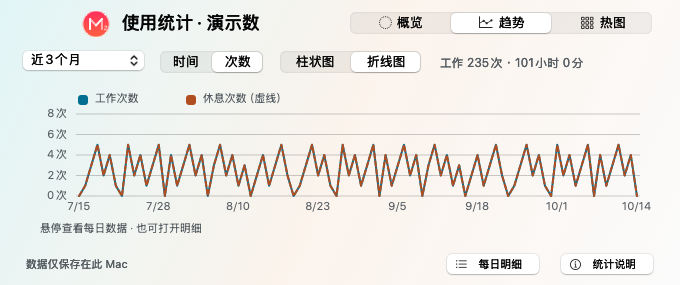
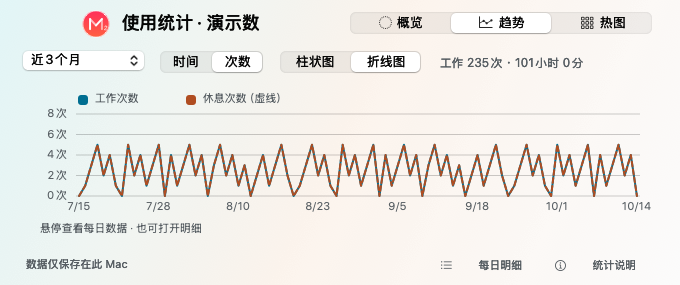
Soften statistics footer actions with borderless secondary buttons

Changed region(s): [[0.8029, 0.8982, 0.9574, 0.9825], [0.6485, 0.8982, 0.7721, 0.9825]]

diff --git a/Sources/Minutes2/StatisticsWindow.swift b/Sources/Minutes2/StatisticsWindow.swift
@@ -252,6 +252,24 @@ private final class StatisticsDetails: NSViewController, NSTableViewDataSource, 
     @objc private func done() { if let window = view.window { window.sheetParent?.endSheet(window) } }
 }
 
+/// Secondary footer actions share the glass backdrop and keep native button semantics.
+private final class StatisticsFooterButton: NSButton {
+    private var hovered = false
+    override func updateTrackingAreas() {
+        super.updateTrackingAreas(); trackingAreas.forEach(removeTrackingArea)
+        addTrackingArea(NSTrackingArea(rect: .zero, options: [.mouseEnteredAndExited, .activeInKeyWindow, .inVisibleRect], owner: self))
+    }
+    override func mouseEntered(with event: NSEvent) { hovered = true; refreshAppearance() }
+    override func mouseExited(with event: NSEvent) { hovered = false; refreshAppearance() }
+    override func viewDidChangeEffectiveAppearance() { super.viewDidChangeEffectiveAppearance(); refreshAppearance() }
+    func refreshAppearance() {
+        let color: NSColor = hovered ? .labelColor : StatsStyle.secondary
+        contentTintColor = color
+        attributedTitle = NSAttributedString(string: title, attributes: [.font: NSFont.systemFont(ofSize: 11, weight: .regular), .foregroundColor: color])
+        needsDisplay = true
+    }
+}
+
 private final class StatisticsDashboard: NSView {
     let store: UsageStore
     private let chart = StatisticsChart()
@@ -265,8 +283,8 @@ private final class StatisticsDashboard: NSView {
     private let sinceLabel = NSTextField(labelWithString: "")
     private let periodLabel = NSTextField(labelWithString: "")
     private let note = NSTextField(labelWithString: "数据仅保存在此 Mac")
-    private let info = NSButton(title: "统计说明", target: nil, action: nil)
-    private let details = NSButton(title: "每日明细", target: nil, action: nil)
+    private let info = StatisticsFooterButton(title: "统计说明", target: nil, action: nil)
+    private let details = StatisticsFooterButton(title: "每日明细", target: nil, action: nil)
     private let logo = NSImageView()
     private var detailsController: StatisticsDetails?
     override var isFlipped: Bool { true }
@@ -289,11 +307,20 @@ private final class StatisticsDashboard: NSView {
         for (index, symbol) in ["circle.dotted", "chart.xyaxis.line", "square.grid.3x3"].enumerated() {
             tabs.setImage(NSImage(systemSymbolName: symbol, accessibilityDescription: nil), forSegment: index)
         }
-        for button in [info, details] { button.bezelStyle = .rounded; button.font = .systemFont(ofSize: 11); button.target = self }
+        for button in [info, details] {
+            button.isBordered = false; button.bezelStyle = .inline
+            button.font = .systemFont(ofSize: 11, weight: .regular); button.target = self
+            button.focusRingType = .default
+            button.refreshAppearance(); button.toolTip = button.title
+        }
         info.action = #selector(showInfo); details.action = #selector(showDetails)
         info.image = NSImage(systemSymbolName: "info.circle", accessibilityDescription: nil)
         details.image = NSImage(systemSymbolName: "list.bullet", accessibilityDescription: nil)
-        info.imagePosition = .imageLeading; details.imagePosition = .imageLeading
+        for button in [info, details] {
+            button.image = button.image?.withSymbolConfiguration(.init(pointSize: 11, weight: .regular))
+            button.image?.size = NSSize(width: 12, height: 12)
+            button.imagePosition = .imageLeft
+        }
         for page in [overview, chart, heatmap] { page.setAccessibilityElement(true); page.setAccessibilityRole(.image) }
         chart.toolTip = "悬停查看每日数据，或点按每日明细打开数据表"
         heatmap.toolTip = "每格代表一天，深色表示更多专注；每日明细支持键盘和辅助功能"

diff --git a/docs/statistics-design.md b/docs/statistics-design.md
@@ -8,5 +8,6 @@
 - 概览、趋势、热图三个原生分段 Tab；周期改为下拉选择，详细表格和统计口径按需打开。
 - 数据区统一使用透明背景，去掉概览指标、趋势图和热图的独立填充及边框，直接融入窗口毛玻璃；通过留白、图例和字体层级区分信息。保留 20pt 外边距、12pt 分组间距，概览采用左右布局，近半年热图采用单条横向网格。
 - Tab/筛选切换使用 180ms 淡入，遵循系统减少动态效果；减少透明度时关闭渐变背景，改用实色背景。
+- “每日明细”和“统计说明”采用无底色、无边框的次要文字按钮，11pt 常规字重与小图标，悬停时文字加深，保留原生键盘焦点。
 - 原生控件保留键盘焦点与辅助功能名称；每个图表提供可读取的数据表替代，热图提示也可通过数据表获取。
 - 实际统计口径、持久化与计时行为保持原实现。
